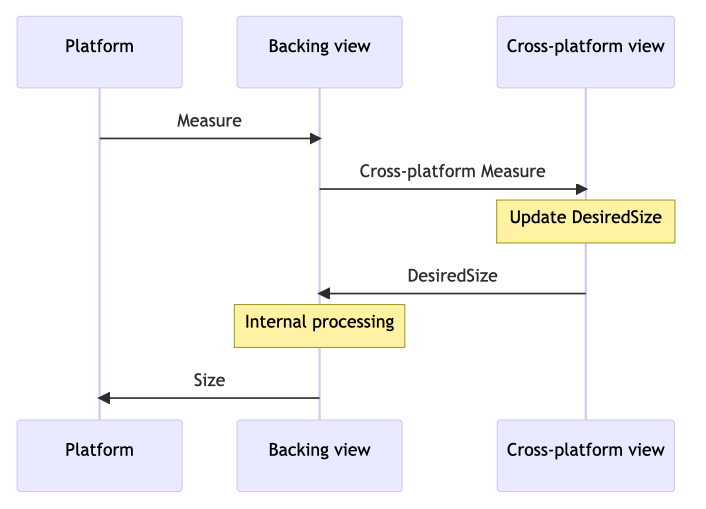
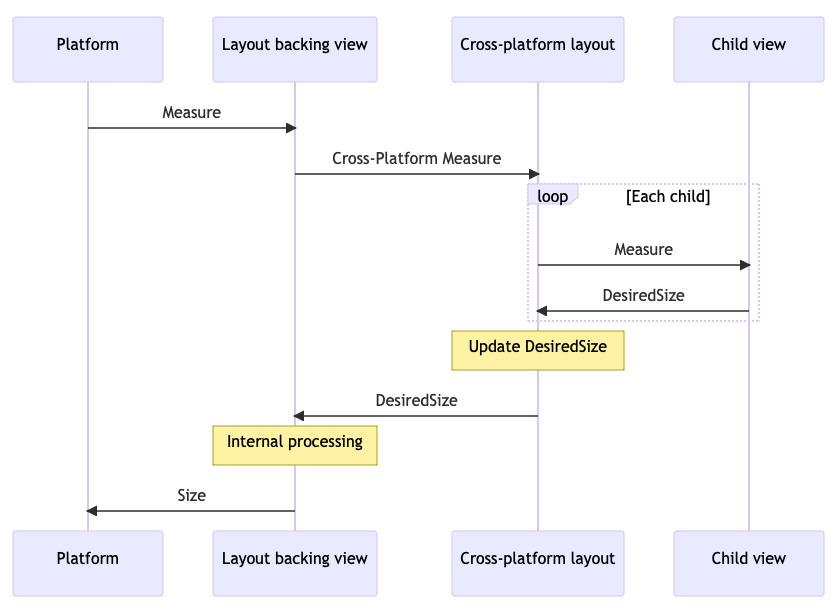
Edits.

diff --git a/docs/user-interface/layouts/custom.md b/docs/user-interface/layouts/custom.md
@@ -28,33 +28,12 @@ Regardless of the approach taken, it's necessary to first have an understanding 
 
 .NET MAUI's cross-platform layout process builds on top of the native layout process on each platform. Generally, the layout process is initiated by the native layout system. The cross-platform process runs when a layout or content control initiates it as a result of being measured or arranged by the native layout system.
 
-The following diagram shows the process when the native layout system wants to measure a backing view:
-
-:::image type="content" source="media/custom-layout/layout-process.png" alt-text="The layout process in .NET MAUI" border="false":::
-
-<!-- ```mermaid
-sequenceDiagram
-    participant P as Platform
-    participant BV as Backing view
-    participant XV as Cross-platform view
-    P->>BV: Measure
-    BV->>XV: Cross-platform Measure
-    Note over XV: Update DesiredSize
-    XV->>BV: DesiredSize
-    Note over BV: Internal processing
-    BV->>P: Size
-``` -->
-
-In this example, assume that the cross-platform view being measured is a <xref:Microsoft.Maui.Controls.ContentView> that contains a <xref:Microsoft.Maui.Controls.Label>. A native platform, such as Android, needs to know the size of the <xref:Microsoft.Maui.Controls.ContentView>, given constraints of a width of 100 and a height of 200. The platform calls its `Measure` method on the backing view for the <xref:Microsoft.Maui.Controls.ContentView> (which on Android is a `ContentViewGroup`) with the constraints. The backing view converts the constraints to cross-platform units, if required, and then calls its `CrossPlatformMeasure` method with those constraints to determine how large the <xref:Microsoft.Maui.Controls.Label> should be. The `CrossPlatformMeasure` method is responsible for calling the <xref:Microsoft.Maui.IView.Measure%2A?displayProperty=nameWithType> method on the <xref:Microsoft.Maui.Controls.Label>. The <xref:Microsoft.Maui.Controls.Label> measures its native control, and updates its <xref:Microsoft.Maui.IView.DesiredSize> property based on that measurement. This value is returned to the backing view as the result of the `CrossPlatformMeasure` method. The backing view then does whatever internal processing it needs to do, and returns its measured size to the platform.
-
 > [!NOTE]
 > Each platform handles layout slightly differently. However, .NET MAUI's cross-platform layout process aims to be as platform-agnostic as possible.
 
-### Layout measurement
+The following diagram shows the process when the native layout system wants to measure a layout backing view:
 
-The process for layout measurement is as described above, except that multiple child views need to be measured:
-
-:::image type="content" source="media/custom-layout/measure-layout.png" alt-text="The process for layout measurement in .NET MAUI" border="false":::
+:::image type="content" source="media/custom-layout/layout-process.png" alt-text="The process for layout measurement in .NET MAUI" border="false":::
 
 <!-- ```mermaid
 sequenceDiagram
@@ -86,29 +65,6 @@ When a platform requests the arrangement, or layout, of one of these backing vie
 
 > [!NOTE]
 > <xref:Microsoft.Maui.Layouts.ILayoutManager.Measure%2A?displayProperty=nameWithType> may be called multiple times before <xref:Microsoft.Maui.Layouts.ILayoutManager.ArrangeChildren%2A> is called, because a platform may need to perform some speculative measurements before arranging views.
-
-<!-- ### View measurement
-
-When a cross-platform view is measured, it passes the measurement to its native view. This process is shown in the following diagram:
-
-:::image type="content" source="media/custom-layout/measure-view.png" alt-text="The process for view measurement in .NET MAUI" border="false":::
-
-```mermaid
-sequenceDiagram
-	participant V as View
-	participant H as Handler
-	participant NV as Native view
-	Note over V: Adjust for margins
-	V->>H: GetDesiredSize
-	Note over H: Convert to native
-	H->>NV: Measure
-	NV->>H: Size
-	Note over H: Convert to cross-platform
-	H->>V: Size
-	Note over V: Adjust for margins, record DesiredSize
-```
-
-In this example, which builds on the previous example, the <xref:Microsoft.Maui.IView.Measure%2A> method for the <xref:Microsoft.Maui.Controls.Label> takes the constraints it's given by the `CrossPlatformMeasure` method and makes any appropriate adjustments, such as subtracting its margins. It then passes the updated constraints to the <xref:Microsoft.Maui.IViewHandler.GetDesiredSize%2A> method of its handler. The handler is aware of the native control (a <xref:Android.Widget.TextView> on Android), and converts the constraints to native values and calls the native control's version of `Measure`. The handler then takes the return value from the native measurement and converts it back to cross-platform values, if required, and returns it to the <xref:Microsoft.Maui.Controls.Label>. The <xref:Microsoft.Maui.Controls.Label> adjusts the result (for example, by adding back its margins), if required, and then sets the result in its <xref:Microsoft.Maui.IView.DesiredSize> property. It then returns the value as a result of the `Measure` method. -->
 
 ## Create a custom layout type
 
